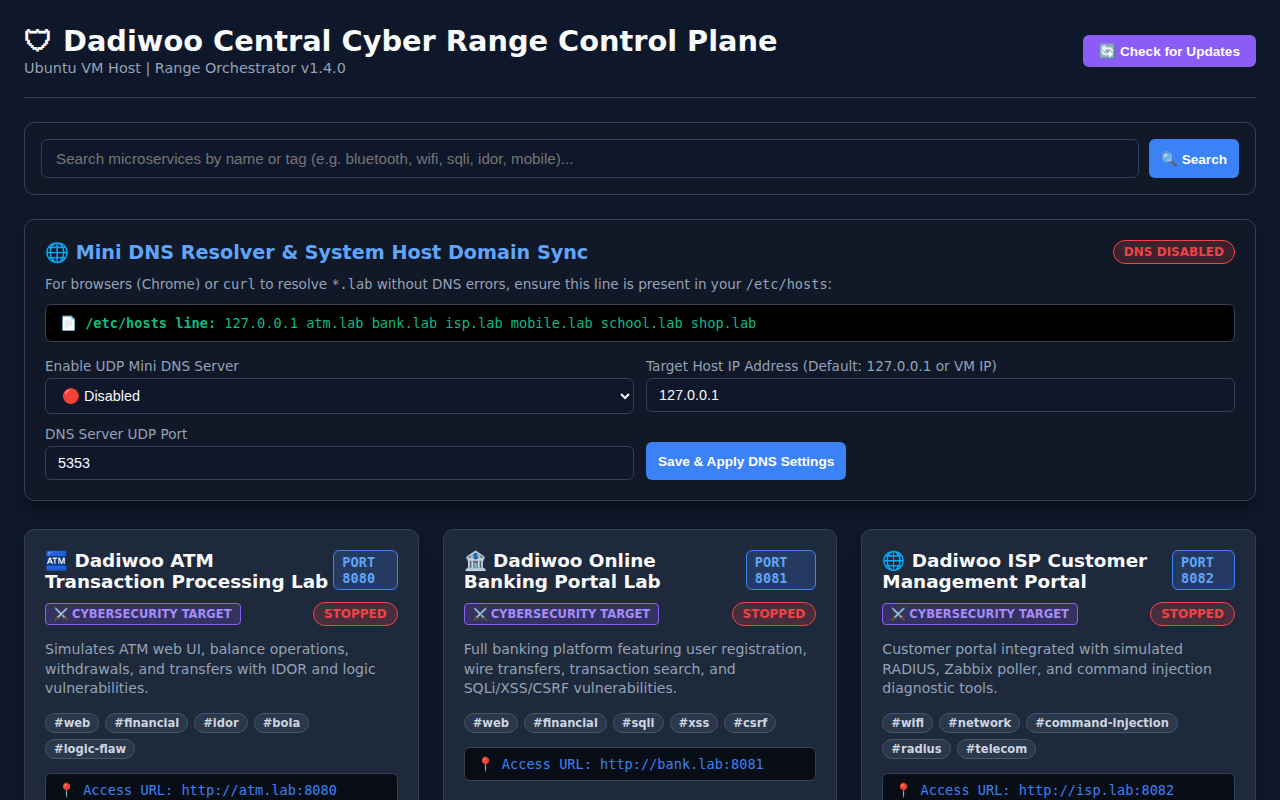
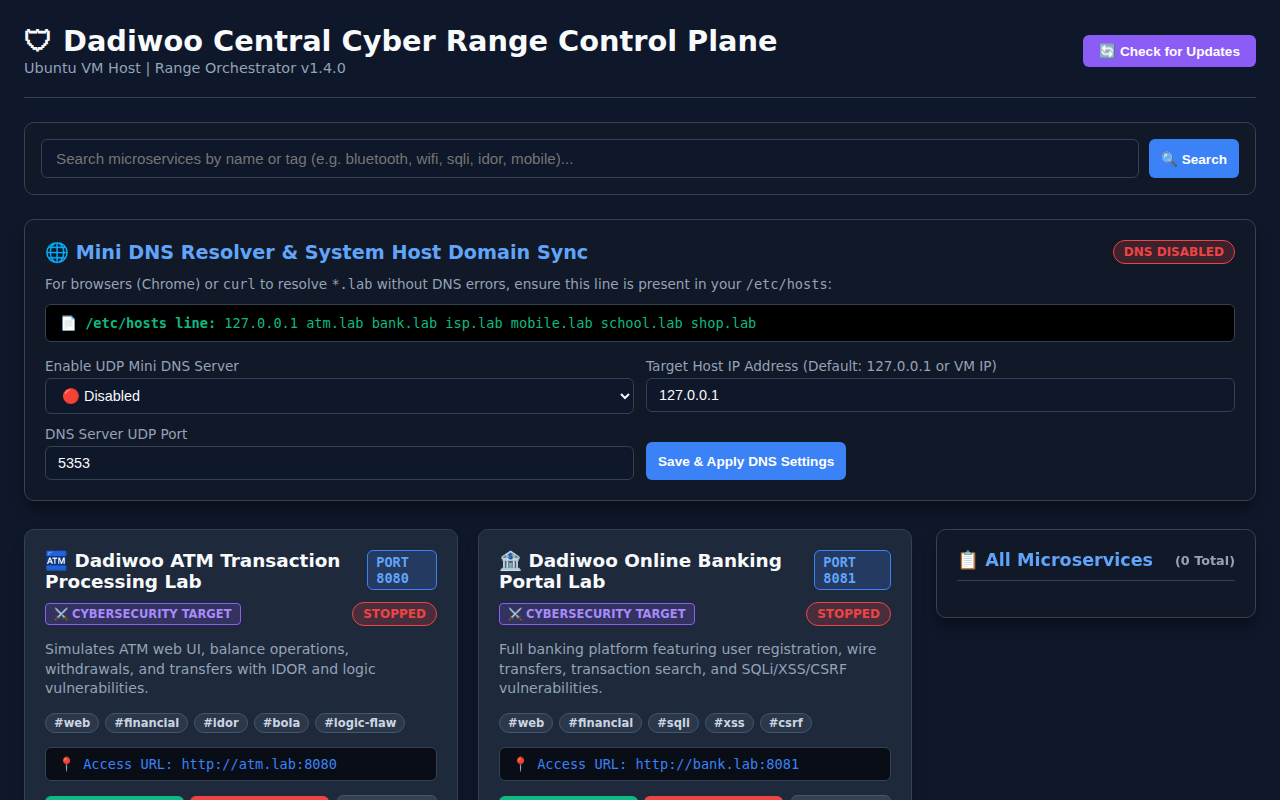
Redesign Manager Dashboard with Right Side Panel, 20-Max Pagination & GitHub Pages Site
- Implemented two-column dashboard layout in `manager/app/templates/index.html` featuring a Right Side Panel (`sidebar-panel`) listing all available microservices with real-time status and ports.
- Capped microservice cards grid at 20 max per page with Previous/Next pagination controls (`page` parameter).
- Created a GitHub Pages documentation site in `docs/` (`index.html`, `style.css`, `_config.yml`) with embedded screenshot guides, Wireshark filters, and Kali Linux penetration testing walkthroughs.
- Added Smartphone & Bluetooth Hacking Lab (`labs/mobile/` - Port 8085) with BlueBorne exfiltration and Dadiwoo branding.
- Updated `start_labs.sh`, `README.md`, `USAGE_GUIDE.md`, and automated test suites (25/25 tests passing).

Changed region(s): [[0.0312, 0.6875, 0.9688, 1.0]]

diff --git a/manager/app/templates/index.html b/manager/app/templates/index.html
@@ -49,7 +49,7 @@
             gap: 12px;
         }
 
-        /* Search & Filter Toolbar */
+        /* Toolbar */
         .toolbar {
             display: flex;
             justify-content: space-between;
@@ -99,11 +99,25 @@
             word-break: break-all;
         }
 
-        /* Microservice Cards Grid */
+        /* Two Column Main Dashboard Layout */
+        .dashboard-layout {
+            display: grid;
+            grid-template-columns: 1fr 320px;
+            gap: 24px;
+            align-items: start;
+        }
+
+        @media (max-width: 1024px) {
+            .dashboard-layout {
+                grid-template-columns: 1fr;
+            }
+        }
+
+        /* Microservice Cards Grid (Max 20 per page) */
         .grid {
             display: grid;
-            grid-template-columns: repeat(auto-fill, minmax(360px, 1fr));
-            gap: 24px;
+            grid-template-columns: repeat(auto-fill, minmax(340px, 1fr));
+            gap: 20px;
         }
 
         .card {
@@ -199,7 +213,6 @@
         .purpose-cybersecurity { background: rgba(139, 92, 246, 0.2); color: #a78bfa; border: 1px solid #8b5cf6; }
         .purpose-networking { background: rgba(245, 158, 11, 0.2); color: #fbbf24; border: 1px solid #f59e0b; }
 
-        /* Card Controls Bar */
         .card-controls {
             display: flex;
             gap: 8px;
@@ -225,7 +238,65 @@
         .btn-settings { background: #334155; color: white; border: 1px solid #475569; }
         .btn-update { background: var(--accent-purple); color: white; padding: 8px 16px; }
 
-        /* Pagination */
+        /* Right Sidebar Panel */
+        .sidebar-panel {
+            background: #111827;
+            border: 1px solid #374151;
+            border-radius: 10px;
+            padding: 20px;
+            box-shadow: 0 10px 15px -3px rgba(0, 0, 0, 0.4);
+            position: sticky;
+            top: 24px;
+        }
+
+        .sidebar-title {
+            font-size: 1.1rem;
+            font-weight: bold;
+            margin: 0 0 16px 0;
+            padding-bottom: 10px;
+            border-bottom: 1px solid var(--border-color);
+            color: #60a5fa;
+            display: flex;
+            justify-content: space-between;
+            align-items: center;
+        }
+
+        .service-list {
+            list-style: none;
+            padding: 0;
+            margin: 0;
+        }
+
+        .service-item {
+            padding: 10px 12px;
+            border-radius: 6px;
+            background: var(--panel-bg);
+            border: 1px solid var(--border-color);
+            margin-bottom: 10px;
+            display: flex;
+            justify-content: space-between;
+            align-items: center;
+        }
+
+        .service-item-info {
+            display: flex;
+            flex-direction: column;
+            gap: 2px;
+        }
+
+        .service-item-name {
+            font-weight: 600;
+            font-size: 0.88rem;
+            color: var(--text-main);
+        }
+
+        .service-item-port {
+            font-size: 0.75rem;
+            color: var(--text-sub);
+            font-family: monospace;
+        }
+
+        /* Pagination Controls */
         .pagination {
             display: flex;
             justify-content: center;
@@ -276,12 +347,6 @@
 
         .form-group {
             margin-bottom: 14px;
-        }
-
-        .form-row-2 {
-            display: grid;
-            grid-template-columns: 1fr 1fr;
-            gap: 12px;
         }
 
         label {
@@ -355,7 +420,7 @@
         {% endif %}
 
         <form action="/web/dns/configure" method="POST" style="margin-top: 16px;">
-            <div class="form-row-2">
+            <div style="display: grid; grid-template-columns: 1fr 1fr; gap: 12px;">
                 <div>
                     <label>Enable UDP Mini DNS Server</label>
                     <select name="dns_enabled">
@@ -369,7 +434,7 @@
                 </div>
             </div>
 
-            <div class="form-row-2" style="margin-top: 12px;">
+            <div style="display: grid; grid-template-columns: 1fr 1fr; gap: 12px; margin-top: 12px;">
                 <div>
                     <label>DNS Server UDP Port</label>
                     <input type="number" name="dns_port" value="{{ dns_settings.dns_port }}" required>
@@ -381,72 +446,99 @@
         </form>
     </div>
 
-    <!-- Microservices Control Grid -->
-    <div class="grid">
-        {% for service in services %}
-            <div class="card">
-                <div>
-                    <div class="card-header">
-                        <h2 class="card-title">{{ service.name }}</h2>
-                        <span class="port-badge">PORT {{ service.configured_port }}</span>
+    <!-- Two Column Dashboard Layout (Cards Grid + Right Side Panel) -->
+    <div class="dashboard-layout">
+
+        <!-- Left/Main Column: Microservice Cards Grid (Capped 20 max per page) -->
+        <div>
+            <div class="grid">
+                {% for service in services %}
+                    <div class="card">
+                        <div>
+                            <div class="card-header">
+                                <h2 class="card-title">{{ service.name }}</h2>
+                                <span class="port-badge">PORT {{ service.configured_port }}</span>
+                            </div>
+
+                            <div style="margin-bottom: 8px; display: flex; justify-content: space-between; align-items: center;">
+                                <span class="purpose-pill purpose-{{ service.environment_purpose }}">
+                                    {% if service.environment_purpose == 'networking' %}🌐 NETWORKING NODE{% else %}⚔ CYBERSECURITY TARGET{% endif %}
+                                </span>
+                                <span class="status-badge status-{{ service.status }}">{{ service.status }}</span>
+                            </div>
+
+                            <p class="card-desc">{{ service.description }}</p>
+
+                            <!-- Tags -->
+                            <div class="tags-container">
+                                {% for tag in service.tags.split(',') %}
+                                    <span class="tag-pill">#{{ tag.strip() }}</span>
+                                {% endfor %}
+                            </div>
+
+                            <div class="url-box">
+                                📍 Access URL: <code>http://{{ service.local_domain }}:{{ service.configured_port }}</code>
+                            </div>
+                        </div>
+
+                        <!-- Simultaneous Action Controls & Settings Modal Button -->
+                        <div class="card-controls">
+                            <form action="/web/configure" method="POST" style="flex: 1; display: flex; gap: 6px;">
+                                <input type="hidden" name="service_id" value="{{ service.id }}">
+                                <input type="hidden" name="configured_port" value="{{ service.configured_port }}">
+                                <input type="hidden" name="local_domain" value="{{ service.local_domain }}">
+                                <input type="hidden" name="difficulty" value="{{ service.difficulty }}">
+                                <input type="hidden" name="environment_purpose" value="{{ service.environment_purpose }}">
+
+                                <button type="submit" name="action" value="start" class="btn btn-success" style="flex: 1;">▶ Start</button>
+                                <button type="submit" name="action" value="stop" class="btn btn-danger" style="flex: 1;">⏹ Stop</button>
+                            </form>
+
+                            <button onclick="openSettingsModal('{{ service.id }}', '{{ service.name|e }}', '{{ service.configured_port }}', '{{ service.local_domain|e }}', '{{ service.difficulty }}', '{{ service.environment_purpose }}', '{{ service.tags|e }}')" class="btn btn-settings">⚙ Settings</button>
+                        </div>
                     </div>
-
-                    <div style="margin-bottom: 8px; display: flex; justify-content: space-between; align-items: center;">
-                        <span class="purpose-pill purpose-{{ service.environment_purpose }}">
-                            {% if service.environment_purpose == 'networking' %}🌐 NETWORKING NODE{% else %}⚔ CYBERSECURITY TARGET{% endif %}
-                        </span>
-                        <span class="status-badge status-{{ service.status }}">{{ service.status }}</span>
+                {% else %}
+                    <div style="grid-column: 1 / -1; padding: 40px; text-align: center; color: var(--text-sub);">
+                        No microservices found matching search criteria. <a href="/" style="color: var(--accent-blue);">Reset Search</a>
                     </div>
-
-                    <p class="card-desc">{{ service.description }}</p>
-
-                    <!-- Tags -->
-                    <div class="tags-container">
-                        {% for tag in service.tags.split(',') %}
-                            <span class="tag-pill">#{{ tag.strip() }}</span>
-                        {% endfor %}
-                    </div>
-
-                    <div class="url-box">
-                        📍 Access URL: <code>http://{{ service.local_domain }}:{{ service.configured_port }}</code>
-                    </div>
-                </div>
-
-                <!-- Simultaneous Action Controls & Settings Modal Button -->
-                <div class="card-controls">
-                    <form action="/web/configure" method="POST" style="flex: 1; display: flex; gap: 6px;">
-                        <input type="hidden" name="service_id" value="{{ service.id }}">
-                        <input type="hidden" name="configured_port" value="{{ service.configured_port }}">
-                        <input type="hidden" name="local_domain" value="{{ service.local_domain }}">
-                        <input type="hidden" name="difficulty" value="{{ service.difficulty }}">
-                        <input type="hidden" name="environment_purpose" value="{{ service.environment_purpose }}">
-
-                        <button type="submit" name="action" value="start" class="btn btn-success" style="flex: 1;">▶ Start</button>
-                        <button type="submit" name="action" value="stop" class="btn btn-danger" style="flex: 1;">⏹ Stop</button>
-                    </form>
-
-                    <button onclick="openSettingsModal('{{ service.id }}', '{{ service.name|e }}', '{{ service.configured_port }}', '{{ service.local_domain|e }}', '{{ service.difficulty }}', '{{ service.environment_purpose }}', '{{ service.tags|e }}')" class="btn btn-settings">⚙ Settings</button>
-                </div>
+                {% endfor %}
             </div>
-        {% else %}
-            <div style="grid-column: 1 / -1; padding: 40px; text-align: center; color: var(--text-sub);">
-                No microservices found matching search criteria. <a href="/" style="color: var(--accent-blue);">Reset Search</a>
-            </div>
-        {% endfor %}
-    </div>
 
-    <!-- Pagination Controls (Max 20 items per page) -->
-    {% if total_pages > 1 %}
-        <div class="pagination">
-            {% if current_page > 1 %}
-                <a href="/?page={{ current_page - 1 }}{% if search_query %}&q={{ search_query }}{% endif %}" class="btn btn-settings">◀ Previous Page</a>
-            {% endif %}
-            <span>Page <strong>{{ current_page }}</strong> of <strong>{{ total_pages }}</strong> (Total Microservices: {{ total_count }})</span>
-            {% if current_page < total_pages %}
-                <a href="/?page={{ current_page + 1 }}{% if search_query %}&q={{ search_query }}{% endif %}" class="btn btn-settings">Next Page ▶</a>
+            <!-- Pagination Controls (Max 20 items per page) -->
+            {% if total_pages > 1 %}
+                <div class="pagination">
+                    {% if current_page > 1 %}
+                        <a href="/?page={{ current_page - 1 }}{% if search_query %}&q={{ search_query }}{% endif %}" class="btn btn-settings">◀ Previous Page</a>
+                    {% endif %}
+                    <span>Page <strong>{{ current_page }}</strong> of <strong>{{ total_pages }}</strong> (Total Microservices: {{ total_count }})</span>
+                    {% if current_page < total_pages %}
+                        <a href="/?page={{ current_page + 1 }}{% if search_query %}&q={{ search_query }}{% endif %}" class="btn btn-settings">Next Page ▶</a>
+                    {% endif %}
+                </div>
             {% endif %}
         </div>
-    {% endif %}
+
+        <!-- Right Side Panel: Complete List of All Available Microservices -->
+        <div class="sidebar-panel">
+            <div class="sidebar-title">
+                <span>📋 All Microservices</span>
+                <span style="font-size: 0.8rem; color: var(--text-sub);">({{ all_services|length }} Total)</span>
+            </div>
+
+            <ul class="service-list">
+                {% for s in all_services %}
+                    <li class="service-item">
+                        <div class="service-item-info">
+                            <span class="service-item-name">{{ s.name }}</span>
+                            <span class="service-item-port">http://{{ s.local_domain }}:{{ s.configured_port }}</span>
+                        </div>
+                        <span class="status-badge status-{{ s.status }}" style="font-size: 0.65rem; padding: 2px 6px;">{{ s.status }}</span>
+                    </li>
+                {% endfor %}
+            </ul>
+        </div>
+
+    </div>
 
     <!-- Admin Settings Modal Popup -->
     <div id="settings-modal" class="modal-overlay">
@@ -493,8 +585,8 @@
                     <input type="text" id="modal-tags" name="tags">
                 </div>
 
-                <div class="btn-group" style="margin-top: 20px;">
-                    <button type="submit" name="action" value="restart" class="btn btn-primary">Save & Apply Changes</button>
+                <div style="display: flex; gap: 8px; margin-top: 20px;">
+                    <button type="submit" name="action" value="restart" class="btn btn-primary" style="flex: 1;">Save & Apply Changes</button>
                     <button type="button" onclick="closeSettingsModal()" class="btn btn-settings">Cancel</button>
                 </div>
             </form>

diff --git a/manager/app/main.py b/manager/app/main.py
@@ -26,7 +26,7 @@ logging.basicConfig(
 )
 logger = logging.getLogger("cyber_range_manager")
 
-CURRENT_VERSION = "1.4.0"
+CURRENT_VERSION = "1.4.1"
 
 app = FastAPI(
     title="Cyber Range Central Manager Dashboard",
@@ -89,11 +89,15 @@ async def dashboard_home(request: Request, q: Optional[str] = None, page: int = 
     offset = (page - 1) * limit
 
     conn = database.get_db_connection()
+    # Always fetch all services for the right sidebar panel
+    all_services = [dict(row) for row in conn.execute("SELECT * FROM microservices ORDER BY name ASC").fetchall()]
+
     if q:
         query_like = f"%{q.strip().lower()}%"
         sql = """
             SELECT * FROM microservices
             WHERE LOWER(name) LIKE ? OR LOWER(description) LIKE ? OR LOWER(tags) LIKE ? OR LOWER(category) LIKE ?
+            ORDER BY name ASC
             LIMIT ? OFFSET ?
         """
         count_sql = """
@@ -103,8 +107,8 @@ async def dashboard_home(request: Request, q: Optional[str] = None, page: int = 
         services = [dict(row) for row in conn.execute(sql, (query_like, query_like, query_like, query_like, limit, offset)).fetchall()]
         total_count = conn.execute(count_sql, (query_like, query_like, query_like, query_like)).fetchone()["count"]
     else:
-        services = [dict(row) for row in conn.execute("SELECT * FROM microservices LIMIT ? OFFSET ?", (limit, offset)).fetchall()]
-        total_count = conn.execute("SELECT COUNT(*) as count FROM microservices").fetchone()["count"]
+        services = [dict(row) for row in conn.execute("SELECT * FROM microservices ORDER BY name ASC LIMIT ? OFFSET ?", (limit, offset)).fetchall()]
+        total_count = len(all_services)
 
     dns_settings = dict(conn.execute("SELECT * FROM dns_settings WHERE id = 1").fetchone())
     conn.close()
@@ -120,6 +124,7 @@ async def dashboard_home(request: Request, q: Optional[str] = None, page: int = 
         name="index.html",
         context={
             "services": services,
+            "all_services": all_services,
             "dns_settings": dns_settings,
             "hosts_line": hosts_line,
             "search_query": q or "",
